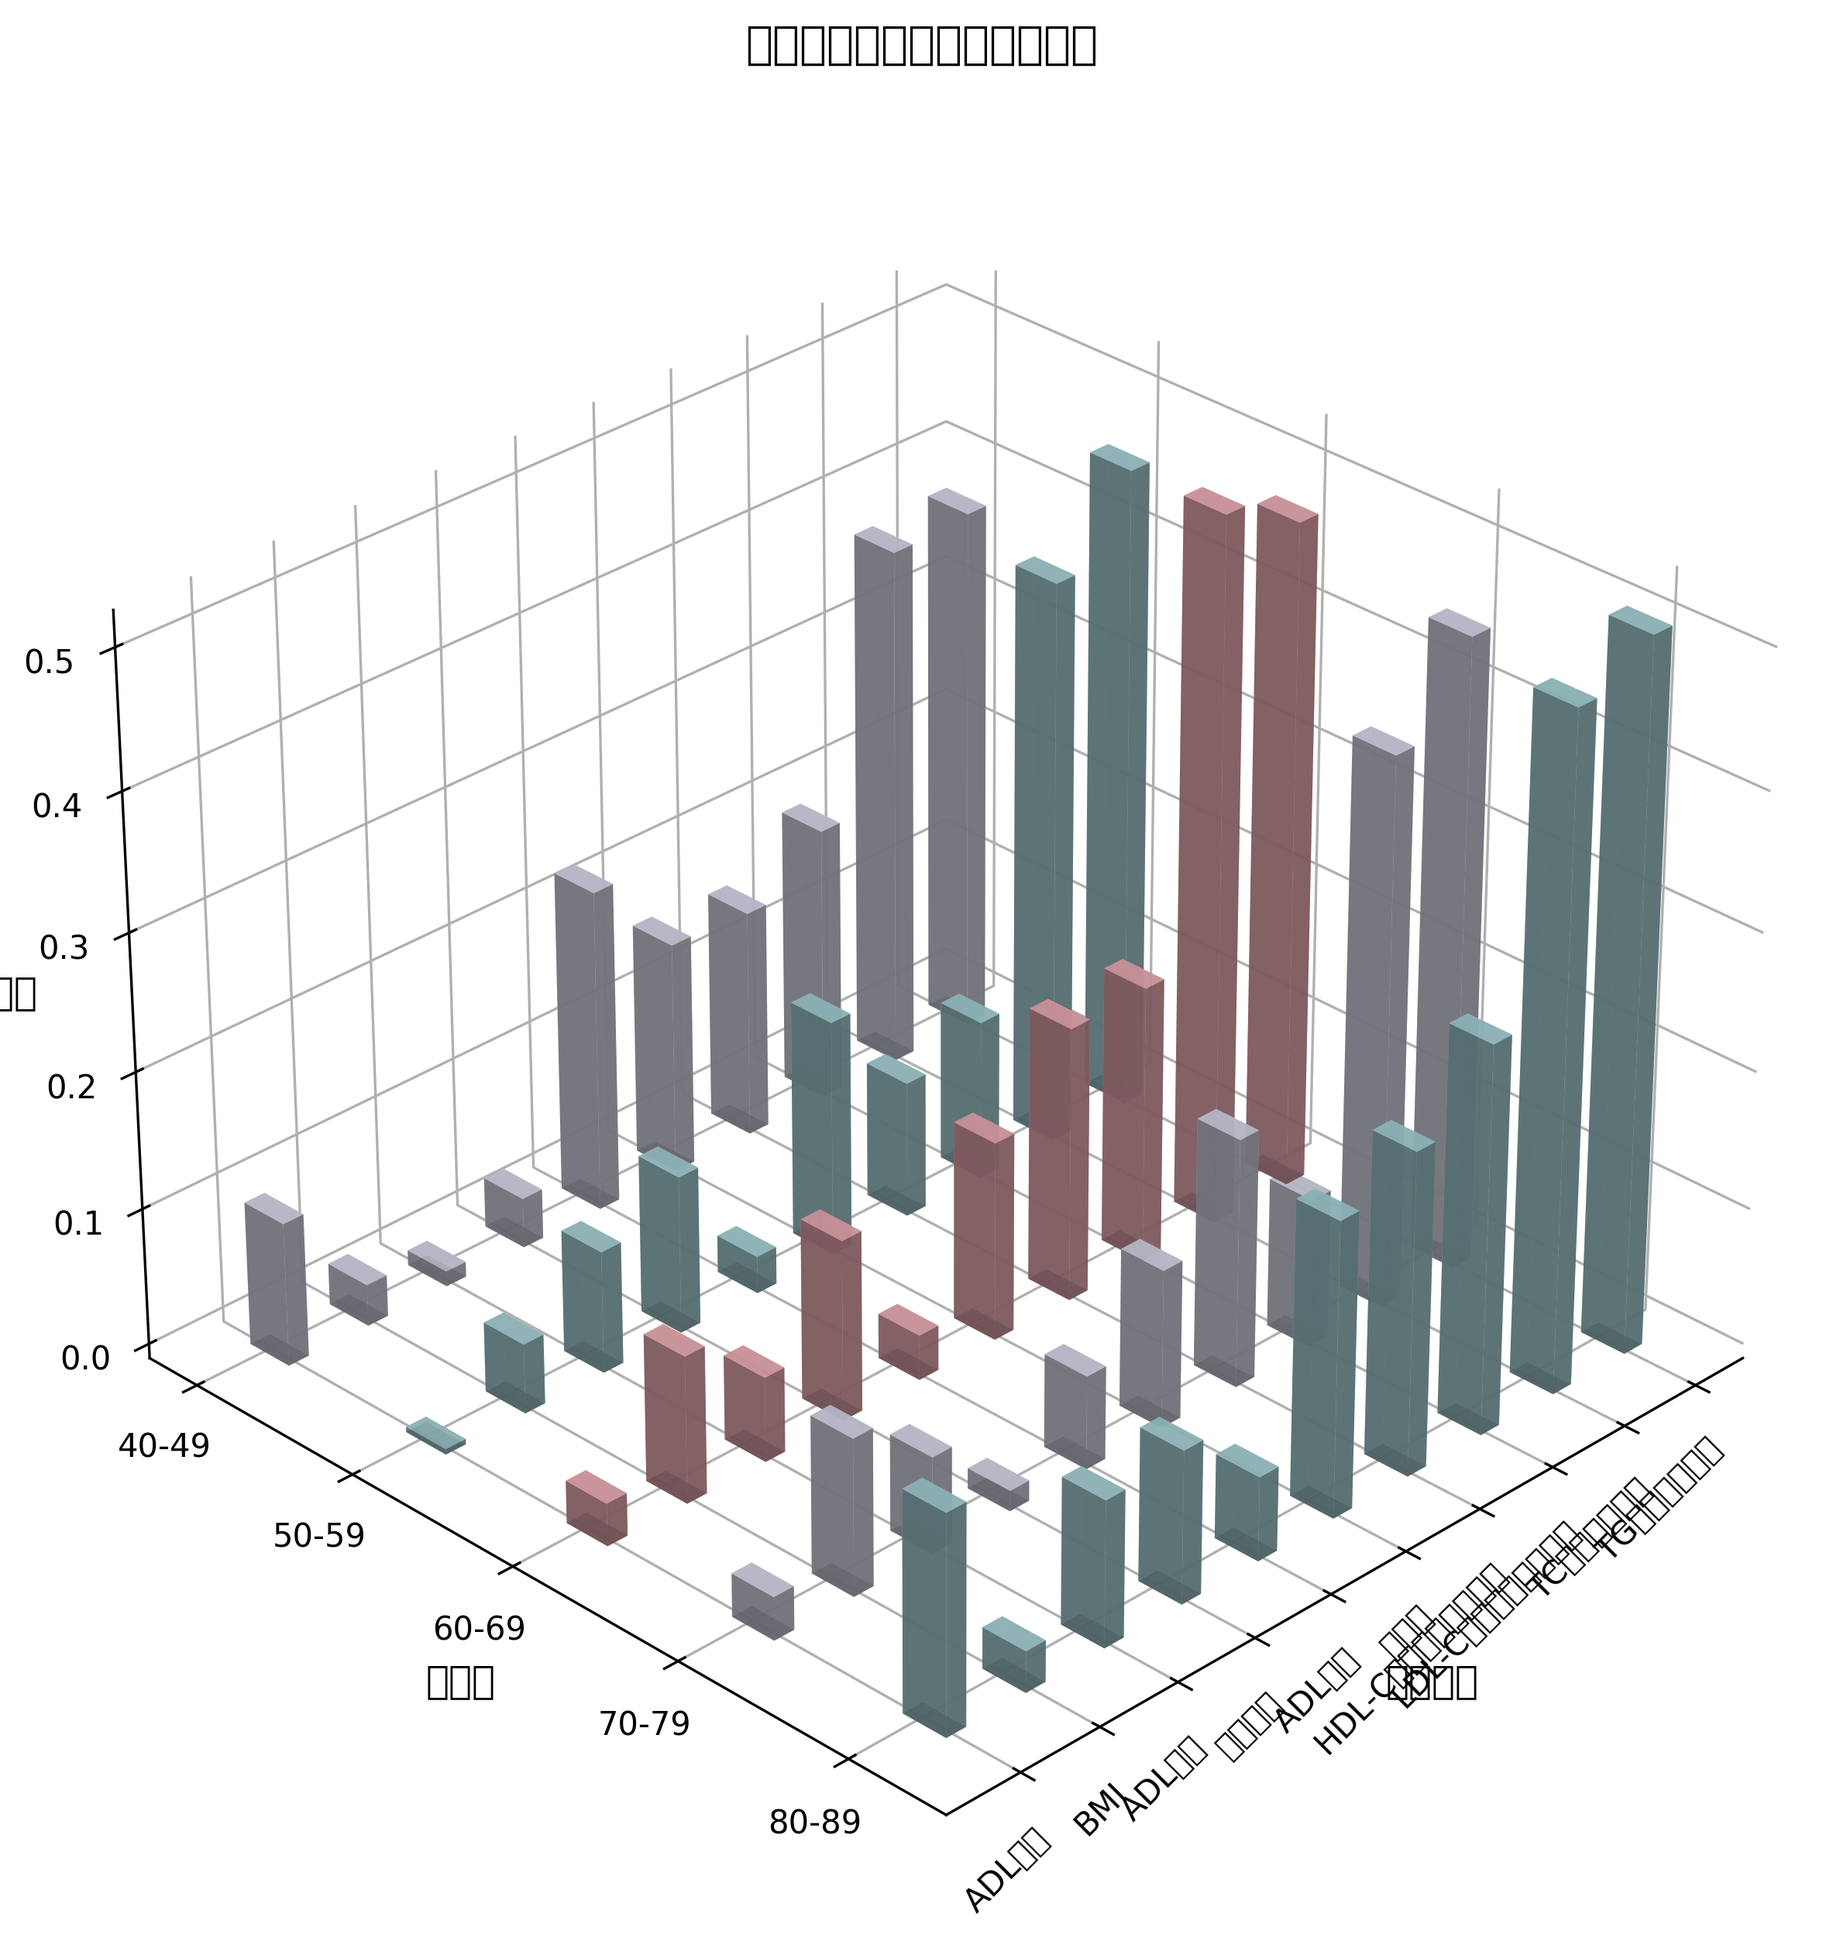
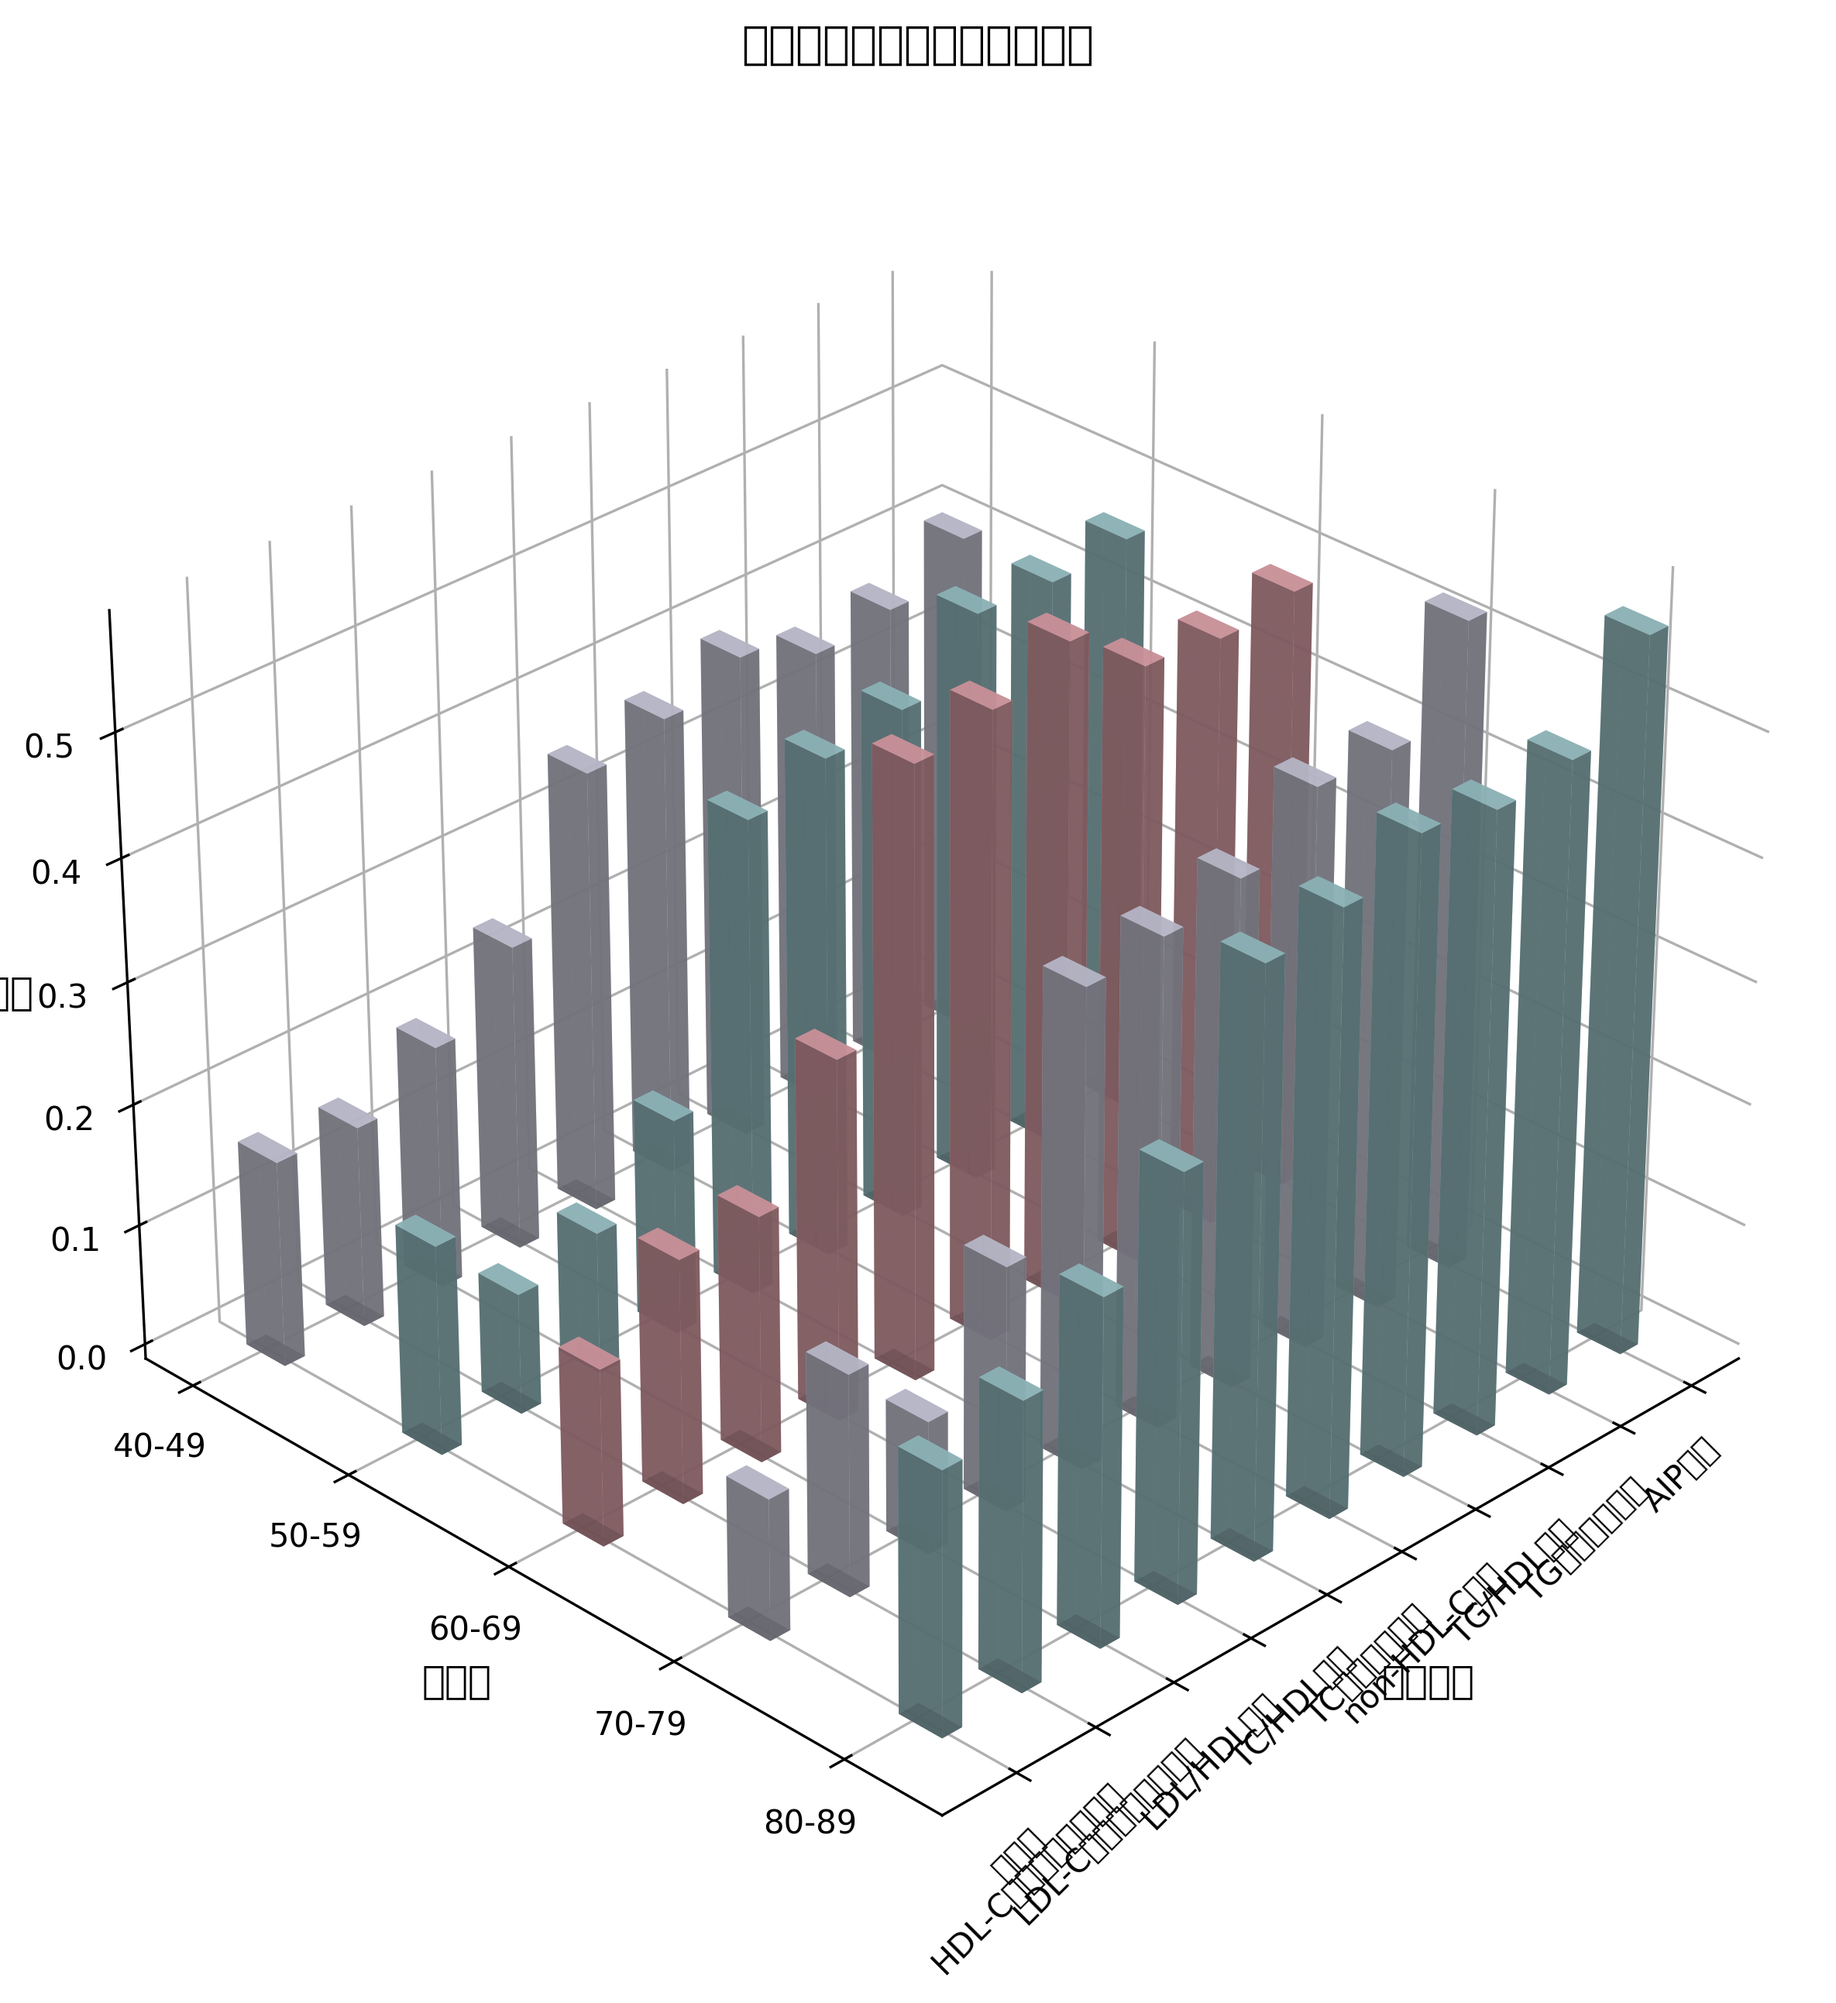
feat: 搭建项目架构

diff --git a/Project_mat/generate_3d_grouped_bar_chart.py b/Project_mat/generate_3d_grouped_bar_chart.py
@@ -29,7 +29,7 @@ def prepare_data(df):
     # 检查必要的列
     required_cols = ['年龄组', 'TC（总胆固醇）', 'TG（甘油三酯）', 'HDL-C（高密度脂蛋白）', 'LDL-C（低密度脂蛋白）', '血尿酸', '空腹血糖', 'BMI',
                     'ADL总分', '活动量表总分（ADL总分+IADL总分）', 'ADL吃饭', 'ADL用厕', 'ADL洗澡', 'ADL穿衣', 'ADL步行', 'IADL总分',
-                    '高血脂症二分类标签']
+                    '高血脂症二分类标签', 'non-HDL-C_缩尾', 'AIP_缩尾', 'TC/HDL比值_缩尾', 'LDL/HDL比值_缩尾', 'TG/HDL比值_缩尾']
     
     missing_cols = [col for col in required_cols if col not in df.columns]
     if missing_cols:
@@ -54,7 +54,12 @@ def prepare_data(df):
         'ADL穿衣': 'ADL_dressing',
         'ADL步行': 'ADL_walking',
         'IADL总分': 'IADL_total',
-        '高血脂症二分类标签': 'high_lipid'
+        '高血脂症二分类标签': 'high_lipid',
+        'non-HDL-C_缩尾': 'non_HDL_cut',
+        'AIP_缩尾': 'AIP_cut',
+        'TC/HDL比值_缩尾': 'TC_HDL_cut',
+        'LDL/HDL比值_缩尾': 'LDL_HDL_cut',
+        'TG/HDL比值_缩尾': 'TG_HDL_cut'
     })
     
     # 检查现有年龄组的取值
@@ -65,7 +70,7 @@ def prepare_data(df):
 def calculate_scores(df):
     """计算各指标的综合评分"""
     # 血常规体检指标
-    blood_indices = ['TC', 'TG', 'HDL', 'LDL', 'UA', 'FPG', 'BMI']
+    blood_indices = ['TC', 'TG', 'HDL', 'LDL', 'UA', 'FPG', 'BMI', 'non_HDL_cut', 'AIP_cut', 'TC_HDL_cut', 'LDL_HDL_cut', 'TG_HDL_cut']
     # 活动量指标
     activity_indices = ['ADL_total', 'activity_total', 'ADL_eating', 'ADL_toilet', 'ADL_bathing', 'ADL_dressing', 'ADL_walking', 'IADL_total']
     
@@ -125,6 +130,11 @@ def select_top_10_indices(scores, blood_indices, activity_indices):
         'UA': '血尿酸',
         'FPG': '空腹血糖',
         'BMI': 'BMI',
+        'non_HDL_cut': 'non-HDL-C缩尾',
+        'AIP_cut': 'AIP缩尾',
+        'TC_HDL_cut': 'TC/HDL缩尾',
+        'LDL_HDL_cut': 'LDL/HDL缩尾',
+        'TG_HDL_cut': 'TG/HDL缩尾',
         'ADL_total': 'ADL总分',
         'activity_total': '活动量表总分',
         'ADL_eating': 'ADL吃饭',

diff --git a/Project_mat/check_columns.py b/Project_mat/check_columns.py
@@ -1,0 +1,36 @@
+#!/usr/bin/env python3
+# 检查数据文件中的列
+
+import pandas as pd
+
+print("=== 检查数据文件中的列 ===")
+
+# 加载数据
+try:
+    df = pd.read_pickle('/workspace/Project_mat/data/processed/preprocessed_data.pkl')
+    print(f"成功加载数据，样本数：{len(df)}")
+    print(f"列数：{len(df.columns)}")
+    print("\n所有列名：")
+    for i, col in enumerate(sorted(df.columns)):
+        print(f"{i+1}. {col}")
+        
+    # 检查是否有缩尾相关的列
+    print("\n缩尾相关的列：")
+    for col in sorted(df.columns):
+        if '缩尾' in col:
+            print(f"- {col}")
+            
+    # 检查是否有AIP相关的列
+    print("\nAIP相关的列：")
+    for col in sorted(df.columns):
+        if 'AIP' in col:
+            print(f"- {col}")
+            
+    # 检查是否有TC/HDL、LDL/HDL、TG/HDL相关的列
+    print("\n比值相关的列：")
+    for col in sorted(df.columns):
+        if any(x in col for x in ['TC/HDL', 'LDL/HDL', 'TG/HDL', 'non-HDL']):
+            print(f"- {col}")
+            
+except Exception as e:
+    print(f"加载数据失败: {e}")
